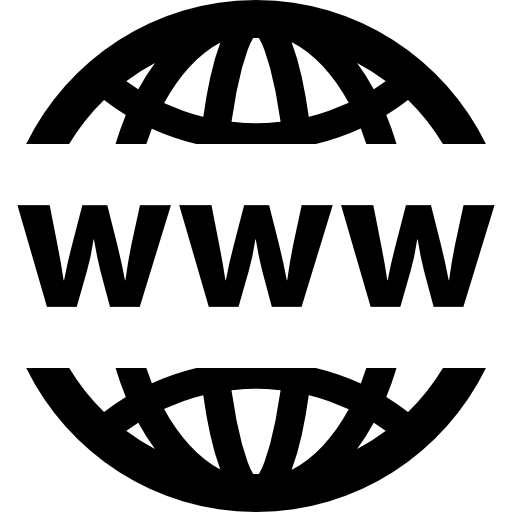
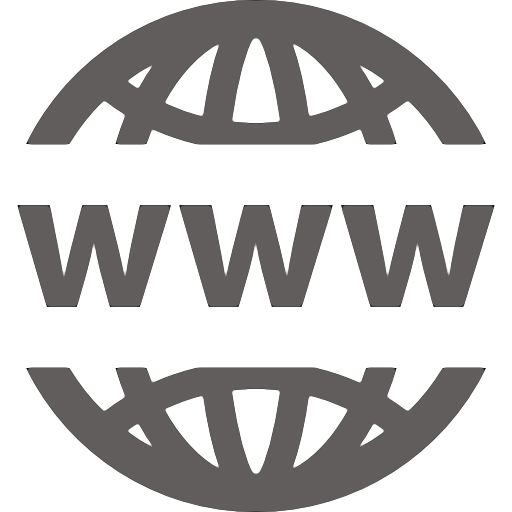
updated styles

diff --git a/src/styles.css b/src/styles.css
@@ -2,6 +2,8 @@ body {
   box-sizing: border-box;
   background-color: #f6f6f6;
   text-align: justify;
+  color: #615d5c;
+
 }
 
 navbar {
@@ -42,7 +44,6 @@ a:hover {
 }
 
 .hero-text, .statement {
-  color: #615d5c;
   background-color: #ffffffa3;
   position: absolute;
   left: 34%;
@@ -62,7 +63,6 @@ a:hover {
 
 .skills, .projects {
   width: 100%;
-  color: #615d5c;
   text-align: center;
 }
 
@@ -88,15 +88,14 @@ a:hover {
 }
 
 .about {
-  color: #615d5c;
   max-width: 90%;
   padding-left: 4%;
 }
 
-
-
 .flickr {
+  font-size: 1em;
   color: #615d5c;
+  padding: 0%;
   text-decoration: underline;
 }
 
@@ -131,13 +130,19 @@ a:hover {
   background-color: #696868;
 }
 
+.app-name {
+  width: fit-content;
+  padding-left: 10%;
+  padding-right: 10%;
+  background-image: linear-gradient(-100deg, rgba(255, 255, 255, 0), rgba(255, 255, 0, 0.7) 55%, rgba(255, 255, 255, 0));
+}
+
 .app, .ibeen-app, .dategrub-app, .easemart-app, .tictactoe-app {
   display: flex;
-  color: #615d5c;
   font-size: 1rem;
   flex-direction: row;
   border-top: 2px solid #dbdbdb;
-  background-color: ##f6f6f6;
+  background-color: #f6f6f6;
 }
 
 .dategrub-app {
@@ -149,6 +154,7 @@ a:hover {
 }
 
 .app-body {
+  width: 90%;
   margin-left: 5%;
   margin-top: 3%;
   padding-right: 15px;
@@ -156,14 +162,12 @@ a:hover {
 
 .dategrub-body {
   margin-right: 5%;
-  margin-top: 3%;
-  transform: translate(-10%, 0px);
+  margin-bottom: 2%;
 }
 
 .dategrub-image {
-  width: 80%;
+  width: 100%;
   margin-top: 5%;
-  margin-bottom: 5%;
   transform: translate(-15%, 0px);
 }
 
@@ -175,14 +179,11 @@ a:hover {
 .easemart-image {
   margin: 6%;
   width: 100%;
-  /* transform: translate(-20%, 0px); */
 }
 
 .farmchoir-image {
-  width: 90%;
-  margin-top: 7%;
-  margin-bottom: 5%;
-  transform: translate(-15%, 0px)
+  width: 100%;
+  margin-top: 15%;
 }
 
 .tictactoe-image {
@@ -192,9 +193,9 @@ a:hover {
 }
 
 .website-logo, .git-logo {
-  width: 8%;
-  margin-top: 5%;
-  margin-left: 3%;
+  width: 2.5rem;
+  margin: 2rem;
+  margin-right: -1rem;
 }
 
 @media (max-height: 500px) {
@@ -293,5 +294,9 @@ a:hover {
   }
   .contact-icons {
     width: 55%;
+  }
+  .app-name{
+    width: 90%;
+    text-align: center;
   }
 }

diff --git a/src/eas-e-mart.js b/src/eas-e-mart.js
@@ -4,22 +4,24 @@ import git_logo from "./images/git-logo.png";
 import www from "./images/www.png";
 
 function Easemart() {
-  return (
-    <div>
+  return <div>
       <div className="easemart-app">
         <div className="app-image">
           <img src={easemart} alt="eas-e-mart" className="easemart-image" />
         </div>
-
         <div className="app-body">
           <div className="description">
-            <h2>Description:</h2>
+            <h2 className="app-name">eas-E-mart</h2>
+            <h3>Description:</h3>
             <p>
-              An online classified advertisements website with items for sale.
-              A group project using Express/React and Google Maps API.
+              "eas-E-mart" is a full CRUD online classified advertisements app
+              with items for sale listed by users. The app features user
+              authentication and displays user location on an interactive map.
+              Responsive Web Design makes this app especially easy for use on
+              the go.
             </p>
-            <h2>Tech:</h2>
-            <p>node.js, express/react, css, google maps api</p>
+            <h3>Tech:</h3>
+            <p>Node.js, Express server, postgreSQL, Google Maps API</p>
           </div>
           <div className="links">
             <a href="http://eas-e-mart.herokuapp.com/" target="_blank">
@@ -31,7 +33,7 @@ function Easemart() {
           </div>
         </div>
       </div>
-  </div>);
+    </div>;
 }
 
 export default Easemart;

diff --git a/src/dategrub.js b/src/dategrub.js
@@ -4,22 +4,20 @@ import git_logo from "./images/git-logo.png";
 import www from "./images/www.png";
 
 function Dategrub() {
-  return (
-    <div>
+  return <div>
       <div className="dategrub-app">
         <div className="app-image">
           <img src={dategrub} alt="dategrub" className="dategrub-image" />
         </div>
-
         <div className="dategrub-body">
           <div className="description">
-            <h2>Description:</h2>
+            <h2 className="app-name">date Grub</h2>
+            <h3>Description:</h3>
             <p>
-              An app to find the perfect spot for a date. Powered by Yelp
-              Fusion and Google Maps API.
+              Finding a perfect spot for your date doesn't have to be hard. "date Grub" is powered by Yelp and will recommend you the best ideas near you so you can feel confident about your choice. Sleek design and user-friendly experience will help you decide where to go in no time and once you do, you can share your choice on social media.
             </p>
-            <h2>Tech:</h2>
-            <p>node.js, express, css, yelp fusion api, google maps api</p>
+            <h3>Tech:</h3>
+            <p> React, Express Server, NPM, Yelp Fusion API, Google Maps API</p>
           </div>
           <div className="links">
             <a href="http://date-grub.herokuapp.com/" target="_blank">
@@ -31,7 +29,7 @@ function Dategrub() {
           </div>
         </div>
       </div>
-  </div>);
+    </div>;
 }
 
 export default Dategrub;

diff --git a/src/farm-choir.js b/src/farm-choir.js
@@ -8,13 +8,17 @@ function Farmchoir() {
       <div className="app">
         <div className="app-body">
           <div className="description">
-            <h2>Description:</h2>
+            <h2 className="app-name">Farm Choir</h2>
+            <h3>Description:</h3>
             <p>
-              An interactive sound match memory game for kids based on jQuery
+              "Farm Choir" is an interactive sound match memory game for kids.
+              After hearing a 'song' by the animals at the farm, users need to
+              play it back in the right order. The number of animals in the
+              choir increases with each round. Built using JavaScript jQuery,
               and DOM manipulation.
             </p>
-            <h2>Tech:</h2>
-            <p>jQuery, js, html, css</p>
+            <h3>Tech:</h3>
+            <p>HTML, CSS, Javascript, jQuery, Flexbox, Pixelmator</p>
           </div>
           <div className="links">
             <a href="http://peaceful-pasteur-af9ae7.netlify.com/" target="_blank">

diff --git a/src/tictactoe.js b/src/tictactoe.js
@@ -4,18 +4,18 @@ import git_logo from "./images/git-logo.png";
 import www from "./images/www.png";
 
 function Tictactoe() {
-  return (
-    <div>
+  return <div>
       <div className="tictactoe-app">
         <div className="app-body">
           <div className="description">
+            <h2 className="app-name">Tic Tac Toe</h2>
             <h2>Description:</h2>
             <p>
-              A classic Tic Tac Toe game based on Javascript and DOM
+              This is a classic two-player Tic Tac Toe game built using Javascript and DOM
               manipulation.
             </p>
             <h2>Tech:</h2>
-            <p>node.js, express, css, google maps api</p>
+            <p>HTML, CSS, Javascript, jQuery</p>
           </div>
           <div className="links">
             <a href="" target="_blank">
@@ -30,8 +30,7 @@ function Tictactoe() {
           <img src={tictactoe} alt="tictactoe" className="tictactoe-image" />
         </div>
       </div>
-  </div>
-  );
+    </div>;
 }
 
 export default Tictactoe;

diff --git a/src/ibeen.js b/src/ibeen.js
@@ -8,13 +8,14 @@ function Ibeen() {
       <div className="ibeen-app">
         <div className="app-body">
           <div className="description">
-            <h2>Description:</h2>
+            <h2 className="app-name">iBeen</h2>
+            <h3>Description:</h3>
             <p>
-              A place for all your travel memories; full stack CRUD
-              application using Node and Express and Google Maps API.
+              "iBeen" is a place for all your travel memories. A full CRUD
+              application built using Node.js and Express server, it uses postgreSQL database to store your trips' details. Google Maps API helps users to save the location of their trip as well.
             </p>
-            <h2>Tech:</h2>
-            <p>node.js, express, css, google maps api</p>
+            <h3>Tech:</h3>
+            <p>Node.js, Express server, postgreSQL, NPM, Google Maps API</p>
           </div>
           <div className="links">
             <a href="http://ibeen.herokuapp.com/" target="_blank">
